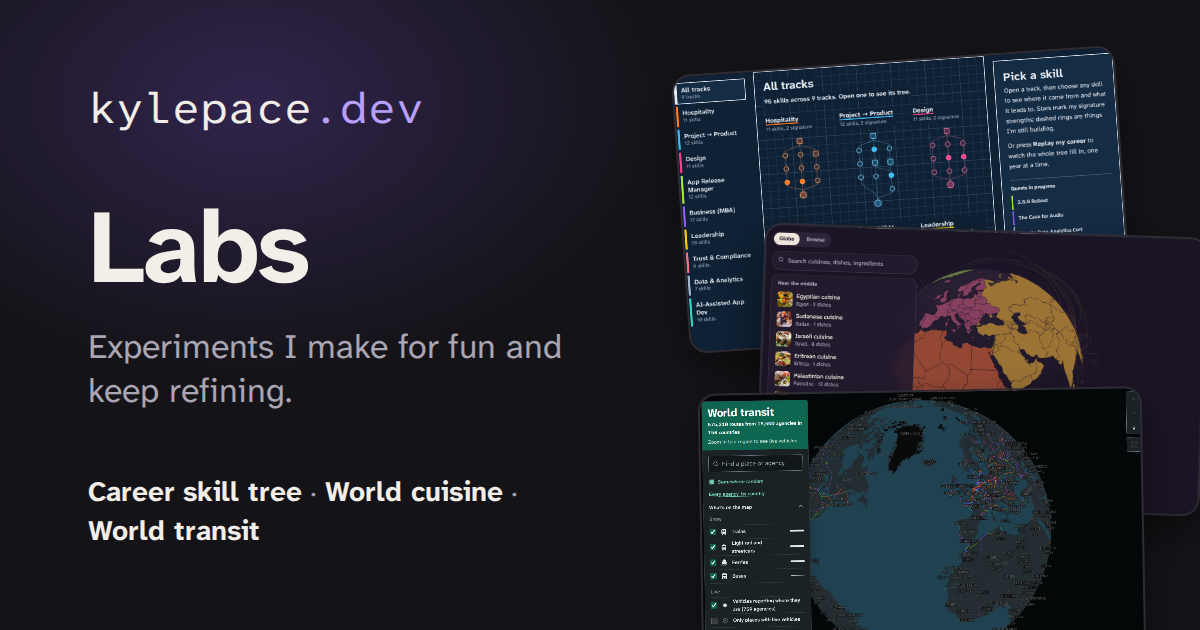
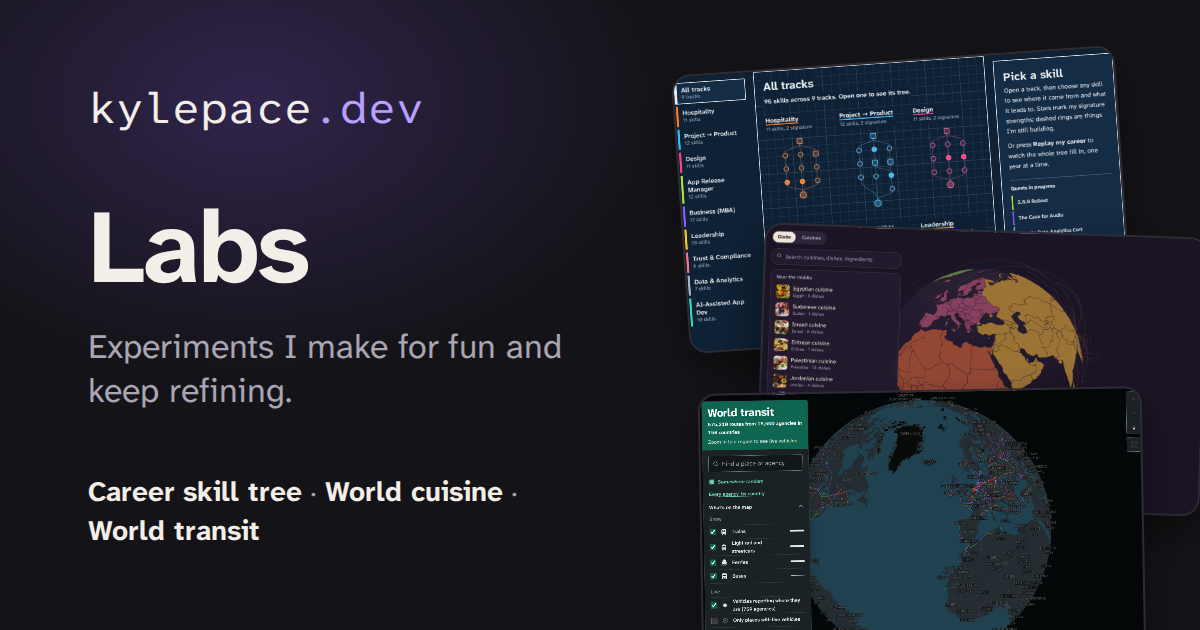
Card screenshots: World cuisine's card works again, and one failed card no longer blocks the rest (#2)
* World cuisine's card is taken from finDish's globe again, and one failed card no longer holds back the rest

World cuisine moved into finDish's Explore section on Nov 26, so its card
started pointing at findish.now/explore/, which has no .frame to shoot.
Every run since has failed on it. Its picture now comes from the globe app
as finDish embeds it (findish.now/explore/app/?embed&lng=30), shot as the
whole window once "Setting the table" is gone.

The workflow now builds, commits and pushes the cards that worked before it
turns red for one that didn't, and runs every four hours because GitHub has
been starting the 18:23 UTC run around 02:00 UTC, night for Live Earth.

* Preview: run the card screenshots workflow on this branch

* Refresh card screenshots: world-cuisine

* Remove the preview trigger

---------

Changed region(s): [[0.6475, 0.3619, 0.74, 0.6333], [0.74, 0.5429, 0.7708, 0.6333], [0.8017, 0.5127, 0.8325, 0.5429]]

diff --git a/scripts/screenshot-projects.py b/scripts/screenshot-projects.py
@@ -47,7 +47,6 @@ APP_MAX_AGE = timedelta(days=30)
 # element below the page intro.
 SELECTORS = {
     "skill-tree": "#skill-tree",
-    "world-cuisine": ".frame",
     "world-transit": ".frame",
     "live-earth": "[data-viewer]",
 }
@@ -56,11 +55,22 @@ SELECTORS = {
 # is the app (Findish: the logo, the search box and the first results).
 TOP_OF_PAGE = {"recipe-search"}
 
+# Where to take the picture when it isn't the page the card links to. World cuisine's card
+# opens finDish's Explore page (findish.now/explore/), but its picture is the globe itself:
+# the app as finDish embeds it, turned to Europe, Africa and Asia rather than open ocean.
+SHOT_URLS = {
+    "world-cuisine": "https://findish.now/explore/app/?embed&lng=30",
+}
+
+# Projects that fill the window with fixed layers (a full-window globe under floating
+# controls): shot as the whole window, with nothing hidden, since hiding fixed elements
+# would hide the app itself.
+WHOLE_WINDOW = {"world-cuisine"}
+
 # A state worth showing, for projects that open empty.
 PATHS = {
     "world-transit": "?at=-25,42,2.2",  # the whole globe: North America, Europe and Africa
     "live-earth": "?sat=east&view=earth",  # the Americas; the workflow runs in their daytime
-    "world-cuisine": "?lng=30",  # Europe, Africa and Asia, not open ocean
     "recipe-search": "?with=ginger,tofu&site=woks",
     "cooking-reference": "#pork",  # what goes with pork
 }
@@ -75,6 +85,7 @@ DAYLIGHT_UTC = {
 # Projects that load their main picture after the page is up: wait until this is true.
 READY = {
     "live-earth": "document.querySelector('[data-status]')?.hidden && !document.querySelector('.is-loading')",
+    "world-cuisine": "!document.getElementById('loading')",  # "Setting the table…" is gone
 }
 
 FIRST_BIG = """() => {
@@ -132,6 +143,8 @@ def out_of_date(names, taken, activity, now):
 def url_for(name, projects):
     if name in APPS:
         return APPS[name]
+    if name in SHOT_URLS:
+        return SHOT_URLS[name]
     p = projects[name]
     base = p.get("url") or f"https://kylepace.dev/{name}/"
     return base + PATHS.get(name, "")
@@ -143,8 +156,10 @@ def image_path(name):
 
 async def shoot(browser, name, projects, dest):
     # Dark mode, reduced motion so nothing is caught mid-animation.
+    # A whole-window shot uses a window the card's shape (16:10), so nothing at its edges is cut.
+    height = 800 if name in WHOLE_WINDOW else 900
     page = await browser.new_page(
-        viewport={"width": 1280, "height": 900}, color_scheme="dark", reduced_motion="reduce"
+        viewport={"width": 1280, "height": height}, color_scheme="dark", reduced_motion="reduce"
     )
     try:
         response = await page.goto(url_for(name, projects), wait_until="networkidle", timeout=60_000)
@@ -153,6 +168,12 @@ async def shoot(browser, name, projects, dest):
         if name in APPS or name in TOP_OF_PAGE:
             await page.evaluate(HIDE_FIXED)
             await page.wait_for_timeout(3000)
+            await page.screenshot(path=str(dest), clip={"x": 0, "y": 0, "width": 1280, "height": 800})
+            return
+        if name in WHOLE_WINDOW:
+            if name in READY:
+                await page.wait_for_function(READY[name], timeout=90_000)
+            await page.wait_for_timeout(4000)  # let the globe draw
             await page.screenshot(path=str(dest), clip={"x": 0, "y": 0, "width": 1280, "height": 800})
             return
         selector = SELECTORS.get(name)

diff --git a/AGENTS.md b/AGENTS.md
@@ -212,7 +212,7 @@ kylepace.dev is where Kyle’s builds live: a home page that gives a short overv
 - **Apps** (`/apps/`, from `src/data/apps.ts`) moved here from kylepace.net/apps/ on November 8, 2026; the old address 301s here. Add an app's `caseStudy` link only once that case study is published on kylepace.net.
 - `/projects.json` publishes the project list (`src/pages/projects.json.ts`). kylepace.net's home page reads it live on each visit for its Labs section (cached about 15 minutes), and at build time for case studies' "read next" card, so keep its fields stable.
 - Share cards live in `design/og-*.html` and render to `public/og-*.png` (see the share-card skill).
-- Each project card on the Labs page and home shelf shows a screenshot of the experiment's main view, from `src/assets/projects/<slug>.png` (apps: `src/assets/apps/<id>.png`). They keep themselves current: `.github/workflows/card-screenshots.yml` runs daily, retakes the card of any lab worked on since its card was taken (comparing `src/data/activity.json` with `src/data/screenshots.json`) and any app card older than a month, keeps the old image if a new one is blank or looks the same, re-renders share cards that show a changed card, and pushes to `main`. For a new lab, or a card that shows the wrong part of the page, use the `card-screenshots` skill.
+- Each project card on the Labs page and home shelf shows a screenshot of the experiment's main view, from `src/assets/projects/<slug>.png` (apps: `src/assets/apps/<id>.png`). They keep themselves current: `.github/workflows/card-screenshots.yml` runs every four hours (GitHub starts scheduled runs late, and Live Earth needs a run in daylight), retakes the card of any lab worked on since its card was taken (comparing `src/data/activity.json` with `src/data/screenshots.json`) and any app card older than a month, keeps the old image if a new one is blank or looks the same (a failed card turns the run red after the good ones are pushed), re-renders share cards that show a changed card, and pushes to `main`. For a new lab, or a card that shows the wrong part of the page, use the `card-screenshots` skill.
 - Run `npm run build` before pushing; it must pass. For tier 2 and 3 changes also run `npm run check` (the `page-check` skill) and look at the screenshots in `.check/`. It covers the pages built as files; `/connections/` and anything else rendered on request needs a look by hand. Deploys run on Cloudflare Workers Builds when `main` changes.
 - **What's most recent comes first.** The home page shelf, `/labs/` and `/projects.json` sort by when each thing was last worked on (`src/lib/log.ts`): the newer of its newest ship log entry and, for labs, its newest commit made by a person, which `.github/workflows/lab-activity.yml` writes to `src/data/activity.json` every hour. Bots and kp-design bumps don't count.
 - **The ship log is the running blog.** `src/data/log.ts` (what shipped, newest first, with optional `notes` paragraphs) feeds the home page terminal, `/log/` and `/log/feed.xml`; `src/data/next.ts` is what's up next. When a session ships something a visitor would notice on any app or lab, add a line with the `ship-log` skill.

diff --git a/.agents/skills/card-screenshots/SKILL.md b/.agents/skills/card-screenshots/SKILL.md
@@ -9,10 +9,10 @@ Each card on the home page and `/labs/` shows a screenshot of the real thing: `s
 
 ## They keep themselves current
 
-`.github/workflows/card-screenshots.yml` runs every day at 18:23 UTC (daylight for Live Earth's Americas view) and runs the script with `--changed`:
+`.github/workflows/card-screenshots.yml` runs every four hours and runs the script with `--changed`. GitHub often starts scheduled runs hours late, so several runs a day make sure one lands in Live Earth's daylight hours; a run with nothing out of date changes nothing.
 
 - A lab's card is retaken when `src/data/activity.json` says the lab was worked on after its card was last taken (`src/data/screenshots.json`). An app's card is retaken once it's a month old.
-- A new image that comes out blank, or a page that fails to load, keeps the old card and turns the run red.
+- A new image that comes out blank, or a page that fails to load, keeps the old card and turns the run red. The other cards from that run are still built, committed and pushed first, so one broken page never holds back the rest.
 - A new image that looks the same as the old one is thrown away, so nothing churns.
 - Share cards in `design/og-*.html` that show a changed card (like `og-labs.html`) are re-rendered.
 - The site is built, then the change is committed and pushed to `main`.
@@ -24,7 +24,8 @@ To retake cards now, run the workflow from the Actions tab: leave the names empt
 The workflow only knows what each page looks like from the settings below. Change them when:
 
 - **A new lab or app is added.** Labs come from `src/data/projects.ts` on their own; a new app needs its address in `APPS`. Run the workflow with its name once it's live.
-- **A card shows the wrong part of the page.** Add a CSS selector for the interesting part (the tree, the globe, the map) to `SELECTORS`, or put the project in `TOP_OF_PAGE` if its whole first screen is the app.
+- **A card shows the wrong part of the page.** Add a CSS selector for the interesting part (the tree, the globe, the map) to `SELECTORS`, or put the project in `TOP_OF_PAGE` if its whole first screen is the app. If the app fills the window with fixed layers (a full-window globe), put it in `WHOLE_WINDOW` instead: `TOP_OF_PAGE` hides fixed elements, which would hide the app.
+- **A lab moves or becomes part of another site.** The card follows its `url` in `projects.ts`. If the picture should come from a different page than the one the card opens (World cuisine's card opens finDish's Explore page, but its picture is the globe app), give that address in `SHOT_URLS`. A selector that no longer matches makes the run red every time until this is fixed.
 - **A card opens empty.** Add a query string or `#hash` that shows a good state to `PATHS`.
 - **A card is caught loading.** Add a "ready" test to `READY`.
 - **A card only looks right at some hours** (Live Earth needs daylight over the Americas). Give its UTC hours in `DAYLIGHT_UTC`; outside them the card waits for the next run.

diff --git a/README.md b/README.md
@@ -19,7 +19,7 @@ npm run preview   # builds, then runs it the way Cloudflare will
 | --- | --- |
 | The list of experiments | `src/data/projects.ts` |
 | The list of apps | `src/data/apps.ts` |
-| Screenshots on the home page shelf and /labs/ | `src/assets/projects/<slug>.png` and `src/assets/apps/<id>.png`, made by `scripts/screenshot-projects.py`, which the daily Card screenshots workflow runs for any lab worked on since its card was taken |
+| Screenshots on the home page shelf and /labs/ | `src/assets/projects/<slug>.png` and `src/assets/apps/<id>.png`, made by `scripts/screenshot-projects.py`, which the Card screenshots workflow runs every four hours for any lab worked on since its card was taken |
 | The ship log (home page, `/log/`, `/log/feed.xml`) | `src/data/log.ts`, kept by hand, newest first (the home page shows five) |
 | What I'm working on next (`/log/` and each card on `/labs/`) | `src/data/next.ts`, kept by hand; delete an item when it ships and log it |
 | The order of the shelf and `/labs/` (most recently worked on first) | `src/lib/log.ts`, from each lab's newest log entry and `src/data/activity.json` |
